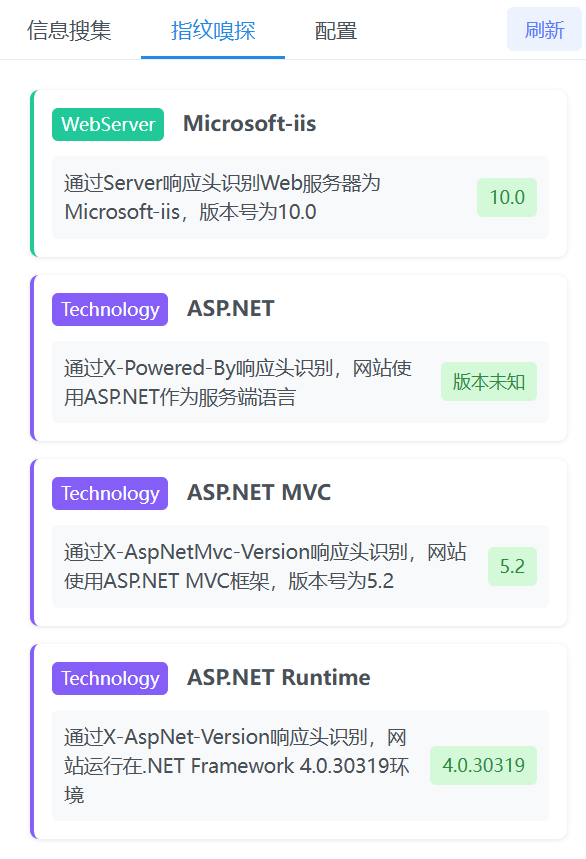
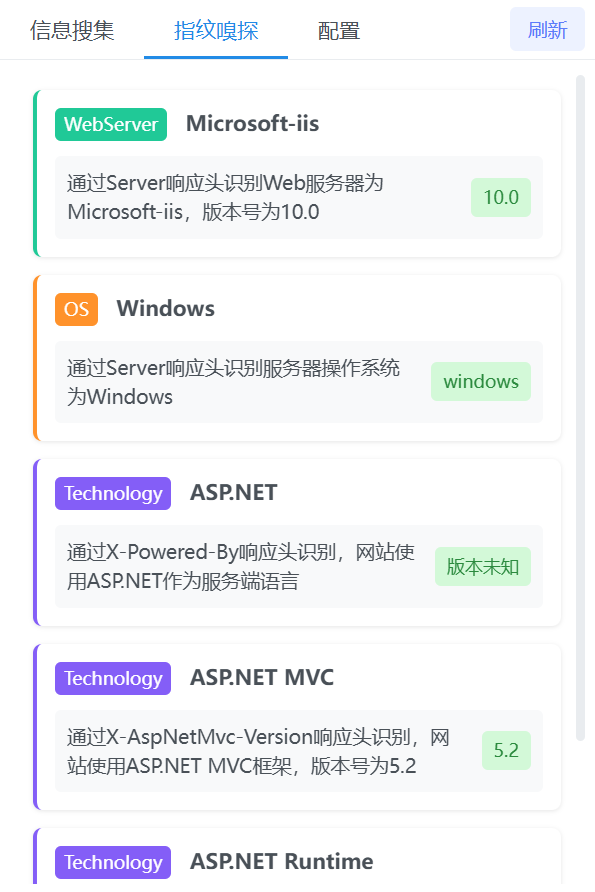
v0.2.3.6

diff --git a/content/config/scanner.config.js b/content/config/scanner.config.js
@@ -14,24 +14,24 @@ const SCANNER_CONFIG = {
     // 需要跳过的第三方JS库正则匹配规则
     SKIP_JS_PATTERNS: [
       // jQuery相关
-      /jquery([.-]?\d*\.?\d*\.?\d*)?(?:[\.-]cookie)?(?:[\.-]fancybox)?(?:[\.-]validate)?(?:[\.-]artDialog)?(?:[\.-]blockui)?(?:[\.-]pack)?(?:[\.-]base64)?(?:[\.-]md5)?(?:[\.-]min)?\.js$/i,
-      /(?:vue|vue-router|vuex)[.-]?\d*\.?\d*\.?\d*(?:\.min)?\.js$/i,
+      /^jquery([.-]?\d*\.?\d*\.?\d*)?(?:[\.-]cookie)?(?:[\.-]fancybox)?(?:[\.-]validate)?(?:[\.-]artDialog)?(?:[\.-]blockui)?(?:[\.-]pack)?(?:[\.-]base64)?(?:[\.-]md5)?(?:[\.-]min)?\.js$/i,
+      /^(?:vue|vue-router|vuex)[.-]?\d*\.?\d*\.?\d*(?:\.min)?\.js$/i,
       // React相关
-      /(react|react-dom)[.-]?\d*\.?\d*\.?\d*(?:\.min)?\.js$/i,
+      /^(react|react-dom)[.-]?\d*\.?\d*\.?\d*(?:\.min)?\.js$/i,
       // Bootstrap相关
-      /bootstrap(?:\.bundle)?[.-]?\d*\.?\d*\.?\d*(?:\.min)?\.js$/i,
+      /^bootstrap(?:\.bundle)?[.-]?\d*\.?\d*\.?\d*(?:[\.-]datepicker|datetimepicker)?(?:[\.-]zh-CN)?(?:[\.-]min)?\.js$/i,
       // UI框架相关
-      /(layui|lay|layer|liger|h-ui|element-ui|ueditor|kindeditor|ant-design)[.-]?\d*\.?\d*\.?\d*(?:[\.-]all)?(?:\.admin)?(?:[\.-]config)?(?:[\.-]min)?\.js$/i,
+      /^(layui|lay|layer|liger|h-ui|element-ui|ueditor|kindeditor|ant-design)[.-]?\d*\.?\d*\.?\d*(?:[\.-]all)?(?:\.admin)?(?:[\.-]config)?(?:[\.-]min)?\.js$/i,
       // 图表相关
-      /(echarts|chart|highcharts)[.-]?\d*\.?\d*\.?\d*(?:\.min)?\.js$/i,     
+      /^(echarts|chart|highcharts)[.-]?\d*\.?\d*\.?\d*(?:\.min)?\.js$/i,     
       // 工具库相关
-      /(lodash|moment|tableexport|axios|plupload|pqgrid)[.-]?\d*\.?\d*\.?\d*(?:\.full)?(?:\.min)?\.js$/i,     
+      /^(lodash|moment|tableexport|axios|plupload|pqgrid)[.-]?\d*\.?\d*\.?\d*(?:\.full)?(?:\.min)?\.js$/i,     
       // 其他常用库
-      /(polyfill|modernizr|device|less|isotope.pkgd|lhgdialog|kendo.web|seajs-style|seajs-text|tinymce|jsencrypt|backbone|select2|underscore|ext-all|ext-unigui-min|exporter|v5_float_4)[.-]?\d*\.?\d*\.?\d*(?:[\.-]dev)?(?:[\.-]min)?\.js$/i,      
+      /^(polyfill|modernizr|device|less|isotope.pkgd|lhgdialog|kendo.web|dataTables|editor|seajs-style|seajs-text|tinymce|jsencrypt|backbone|select2|underscore|ext-all|ext-unigui-min|exporter|buttons|v5_float_4)[.-]?\d*\.?\d*\.?\d*(?:[\.-]dev)?(?:[\.-]html5|bootstrap|print|full)?(?:[\.-]min)?\.js$/i,      
       // 日期选择器
-      /(datepicker|datetimepicker|wdatepicker|laydate)[.-]?\d*\.?\d*\.?\d*(?:\.min)?\.js$/i,   
+      /^(datepicker|datetimepicker|wdatepicker|laydate)[.-]?\d*\.?\d*\.?\d*(?:\.min)?\.js$/i,   
       // 语言包
-      /(?:zh|en|zh-cn|zh-tw|ja|ko)[.-]?\d*\.?\d*\.?\d*(?:\.min)?\.js$/i,
+      /^(?:zh|en|zh-cn|zh-tw|ja|ko)[.-]?\d*\.?\d*\.?\d*(?:\.min)?\.js$/i,
     ],
     // 需要过滤的内容类型
     FILTERED_CONTENT_TYPES: [  
@@ -139,6 +139,31 @@ const SCANNER_CONFIG = {
     }
   },
 
+  // 统一的黑名单配置
+  BLACKLIST: {
+    // 值黑名单 - 从 ID_KEY 配置中移出
+    VALUES: new Set([
+      'input', 'about', 'video', 'null', 'top', 'gener', 'charlendar', 'met',
+      'login', 'read', 'black', 'hand', 'next', 'nect', 'system', 'panel', 'body',
+      'load', 'red', 'green', 'shift', 'item', 'init', 'print','button','left',
+      'finger', 'mark', 'down', 'up', 'ctrl', 'play', 'row', 'ntal', 'header',
+      'has', 'range', 'new', 'json', 'url', 'uri', 'long', 'big','right', 'slider',
+      'html', 'tion', 'default', 'set', 'serve','select', 'view', 'false', 'expect',
+      'broad', 'status', 'dom', 'use', 'rect', 'guard', 'index', 'link',
+      'opera', 'main', 'tech','insert', 'char', 'core', 'turn',  'number', 'atom',
+      'visual','get', 'type','write','error','array','parse','inter', 'size',
+      'statis','card','extract','full','white','refer', 'wrap', 'emp', 'this',
+      'crypt','normal','single','double','triple','more', 'message', 'profile',
+      'tool','tance','popper', 'radio', 'area', 'tip', 'color', 'hid',
+      'old', 'place', 'parm', 'axis', 'high', 'true', 'simple', 'bool', 'pick', 
+      'date', 'cancel', 'croll', 'late', 'note', 'length', 'class', 'light',
+      'param','tend', 'title', 'work','lang', 'func', 'variable', 'dark',
+      'data', 'object', 'brac', 'beare', 'string', 'self', 'void',
+      'opts', 'token', 'result', 'text', 'con', 'stor', 'sup', 'pun',
+      'key', 'com', 'ent', 'case', 'pare', 'dent', 'reg', 'invalid'
+    ])
+  },
+
   // ID密钥相关配置
   ID_KEY: {
     PATTERNS: [
@@ -158,25 +183,7 @@ const SCANNER_CONFIG = {
     ],
     // 关键词黑名单
     KEY_BLACKLIST: new Set([
-      'size', 'row', 'dict', 'up', 'highlight', 'cabin'
-    ]),
-    // 值黑名单
-    VALUE_BLACKLIST: new Set([
-      'input', 'about', 'video', 'null', 'top', 'gener', 'charlendar', 'content',
-      'login', 'read', 'black', 'hand', 'next', 'nect', 'system', 'panel', 'body',
-      'load', 'red', 'green', 'shift', 'item', 'init', 'print','button','left',
-      'finger', 'mark', 'down', 'up', 'ctrl', 'play', 'row', 'ntal', 'header','contain',
-      'has', 'range', 'new', 'json', 'url', 'uri', 'long', 'big','right', 'slider',
-      'html', 'event', 'tion', 'comp', 'default', 'set', 'serve','select', 'view',
-      'broad', 'status', 'dom', 'use', 'rect', 'ment', 'guard', 'index', 'link',
-      'dentified', 'opera', 'main', 'tech','insert', 'char','command', 'core',
-      'visual','get', 'type','write','error','array','parse','inter', 'size',
-      'statis','discard','extract','full','white','refer','parent', 'wrap',
-      'convert','crypt','normal','single','double','triple','more', 'message',
-      'tool','tance','popper','region', 'radio', 'area', 'tip', 'color', 'hid',
-      'old', 'place', 'parm', 'axis', 'high', 'ture', 'simple', 'bool', 'pick', 
-      'date', 'cancel', 'croll', 'late', 'note', 'confirm', 'length', 'class',
-      'param','tend', 'title', 'work','lang'
+      'size', 'row', 'dict', 'up', 'highlight', 'cabin', 'cross'
     ])
   }
 };

diff --git a/popup/popup.js b/popup/popup.js
@@ -22,31 +22,18 @@ function switchPage(pageName) {
 
 // 显示配置信息
 function displayConfig(config) {
-  const container = document.querySelector('.config-page .container');
+  const whitelistDomains = document.querySelector('.whitelist-domains');
   if (!config) {
-    container.innerHTML = '<div class="error">无法获取配置信息</div>';
+    whitelistDomains.innerHTML = '<div class="error">无法获取配置信息</div>';
     return;
   }
 
-  let html = `
-    <div class="config-section">
-      <div class="config-group">
-        <h3>扫描白名单</h3>
-        <div class="config-content">
-          以下域名将不会被扫描：
-        </div>
-        <div class="whitelist-domains">
-          ${config.WHITELIST ? config.WHITELIST.map(domain => `
-            <div class="domain-item">
-              <span class="domain-text">${domain}</span>
-            </div>
-          `).join('') : ''}
-        </div>
-      </div>
+  // 显示白名单域名
+  whitelistDomains.innerHTML = config.WHITELIST ? config.WHITELIST.map(domain => `
+    <div class="domain-item">
+      <span class="domain-text">${domain}</span>
     </div>
-  `;
-
-  container.innerHTML = html;
+  `).join('') : '';
 }
 
 // 显示扫描结果的函数
@@ -322,6 +309,7 @@ function handleLongText() {
 function initConfigPage() {
   chrome.tabs.query({active: true, currentWindow: true}, (tabs) => {
     if (tabs[0]) {
+      // 获取配置信息
       chrome.tabs.sendMessage(tabs[0].id, {type: 'GET_CONFIG'}, response => {
         if (chrome.runtime.lastError || !response || !response.config) {
           const container = document.querySelector('.config-page .container');
@@ -329,6 +317,26 @@ function initConfigPage() {
           return;
         }
         displayConfig(response.config);
+        
+        // 获取动态扫描设置
+        chrome.storage.local.get(['dynamicScan'], (result) => {
+          const dynamicScanCheckbox = document.getElementById('dynamicScan');
+          if (dynamicScanCheckbox) {
+            dynamicScanCheckbox.checked = result.dynamicScan !== false; // 默认开启
+            
+            // 添加变更监听
+            dynamicScanCheckbox.addEventListener('change', (e) => {
+              const enabled = e.target.checked;
+              chrome.storage.local.set({ dynamicScan: enabled });
+              
+              // 通知 content script 更新设置
+              chrome.tabs.sendMessage(tabs[0].id, {
+                type: 'UPDATE_DYNAMIC_SCAN',
+                enabled: enabled
+              });
+            });
+          }
+        });
       });
     }
   });

diff --git a/content/content.js b/content/content.js
@@ -1,3 +1,11 @@
+// 在文件开头添加动态扫描状态变量
+let dynamicScanEnabled = true;
+
+// 在初始化时获取设置
+chrome.storage.local.get(['dynamicScan'], (result) => {
+  dynamicScanEnabled = result.dynamicScan !== false;
+});
+
 // 等待依赖加载 - 简化检查
 const waitForDependencies = () => {
   const deps = [
@@ -280,6 +288,9 @@ async function initScan() {
 
     // 使用 MutationObserver 监听 DOM 变化
     const observer = new MutationObserver((mutations) => {
+      // 如果动态扫描被禁用，直接返回
+      if (!dynamicScanEnabled) return;
+
       // 过滤掉不重要的变化
       const significantChanges = mutations.filter(mutation => {
         // 忽略文本内容的微小变化
@@ -344,6 +355,7 @@ async function collectAndScanResources() {
     // 检查是否是第三方库
     const isThirdPartyLib = (url) => {
       const fileName = url.split('/').pop()?.split('?')[0]?.toLowerCase() || '';
+      // console.log('fileName', fileName);
       return SCANNER_CONFIG.API.SKIP_JS_PATTERNS.some(pattern => pattern.test(fileName));
     };
 
@@ -507,6 +519,9 @@ chrome.runtime.onMessage.addListener((request, sender, sendResponse) => {
           WHITELIST: SCANNER_CONFIG.DOMAIN.WHITELIST
         }
       });
+    } else if (request.type === 'UPDATE_DYNAMIC_SCAN') {
+      dynamicScanEnabled = request.enabled;
+      sendResponse({ success: true });
     }
   } catch (e) {
     // 扩展上下文失效时忽略错误

diff --git a/content/filters/scanner.filter.js b/content/filters/scanner.filter.js
@@ -276,19 +276,22 @@ const SCANNER_FILTER = {
     if (!value.length||key==value) {
       return false; 
     }
-    if (regexCache.keywordPattern.test(value)) return false;
+
+    for (const blackWord of SCANNER_CONFIG.BLACKLIST.VALUES) {
+      if (value.includes(blackWord)) {
+        return false;
+      }
+    }
     resultsSet?.cookies?.add(match);
     return true;
   },
 
   id_key: (match, resultsSet) => {
     if (match.match(/[:=]/)) {
-      // 检查是否是空值
       const valueMatch = match.replace(/\s+/g,'').split(/[:=]/);
       var key = valueMatch[0].replace(/['"]/g,'');
       var value = valueMatch[1].replace(/['"]/g,'');
       
-      // 转换为小写进行检查
       const keyLower = key.toLowerCase();
       const valueLower = value.toLowerCase();
       
@@ -303,8 +306,8 @@ const SCANNER_FILTER = {
         }
       }
 
-      // 检查value是否包含黑名单词
-      for (const blackWord of SCANNER_CONFIG.ID_KEY.VALUE_BLACKLIST) {
+      // 检查value是否在统一黑名单中
+      for (const blackWord of SCANNER_CONFIG.BLACKLIST.VALUES) {
         if (valueLower.includes(blackWord)) {
           return false;
         }

diff --git a/popup/popup.html b/popup/popup.html
@@ -68,7 +68,33 @@
 
   <!-- 配置页面 -->
   <div class="page config-page">
-    <div class="container"></div>
+    <div class="container">
+      <div class="config-section">
+        <div class="config-group">
+          <h3>扫描白名单</h3>
+          <div class="config-content">
+            以下域名将不会被扫描：
+          </div>
+          <div class="whitelist-domains">
+            <!-- 白名单域名将在这里动态显示 -->
+          </div>
+        </div>
+
+        <!-- 添加动态扫描控制 -->
+        <div class="config-group">
+          <h3>扫描设置</h3>
+          <div class="config-item">
+            <label class="switch-wrapper">
+              <input type="checkbox" id="dynamicScan" class="switch-input">
+              <span class="switch-label">动态扫描</span>
+            </label>
+            <div class="config-desc">
+              启用后将自动扫描页面动态变化的内容，适用于单页应用等动态渲染的页面
+            </div>
+          </div>
+        </div>
+      </div>
+    </div>
   </div>
 
   <script src="popup.js"></script>

diff --git a/popup/highlight.css b/popup/highlight.css
@@ -676,4 +676,59 @@ body {
   font-family: monospace;
   word-break: break-all;
 }
+
+/* 开关按钮样式 */
+.switch-wrapper {
+  display: flex;
+  align-items: center;
+  cursor: pointer;
+  margin-bottom: 8px;
+}
+
+.switch-input {
+  position: relative;
+  width: 40px;
+  height: 20px;
+  margin: 0;
+  margin-right: 8px;
+  background: #e9ecef;
+  border-radius: 20px;
+  border: none;
+  outline: none;
+  cursor: pointer;
+  -webkit-appearance: none;
+  transition: all 0.3s;
+}
+
+.switch-input:checked {
+  background: #228be6;
+}
+
+.switch-input::before {
+  content: '';
+  position: absolute;
+  top: 2px;
+  left: 2px;
+  width: 16px;
+  height: 16px;
+  background: white;
+  border-radius: 50%;
+  transition: all 0.3s;
+}
+
+.switch-input:checked::before {
+  transform: translateX(20px);
+}
+
+.switch-label {
+  font-size: 14px;
+  color: #495057;
+}
+
+.config-desc {
+  font-size: 12px;
+  color: #868e96;
+  margin-top: 4px;
+  margin-left: 48px;
+}
  

diff --git a/background/background.js b/background/background.js
@@ -109,6 +109,14 @@ function parseServerHeader(serverHeader) {
           name: name,
           version: part.includes('/') ? part.split('/')[1] : null
         };
+        
+        // 如果是 IIS，直接判定为 Windows 系统
+        if (serverName.includes('microsoft-iis') && !components.os) {
+          components.os = {
+            name: 'Windows',
+            version: 'windows'
+          };
+        }
       }
     }
     // 处理其他组件

diff --git a/README.md b/README.md
@@ -74,7 +74,7 @@
     <img src="icons/white.png" alt="白名单" width="80%">
 </div>
 
-### 指纹嗅探页面（静态，开发中）
+### 指纹嗅探页面
 <div style="text-align:center">
     <img src="icons/xiutan.png" alt="指纹嗅探" width="80%">
 </div>
@@ -163,7 +163,10 @@
 - 完善ID密钥的匹配，增加过滤集
 ### 2025-01-27
 - 完善一些过滤细节
-
+### 2025-02-05
+- 完善指纹嗅探功能
+- 完善响应包处理
+- 增加更多的第三方库
 ---
 
 **雪瞳——洞悉无形，守护无界。**
